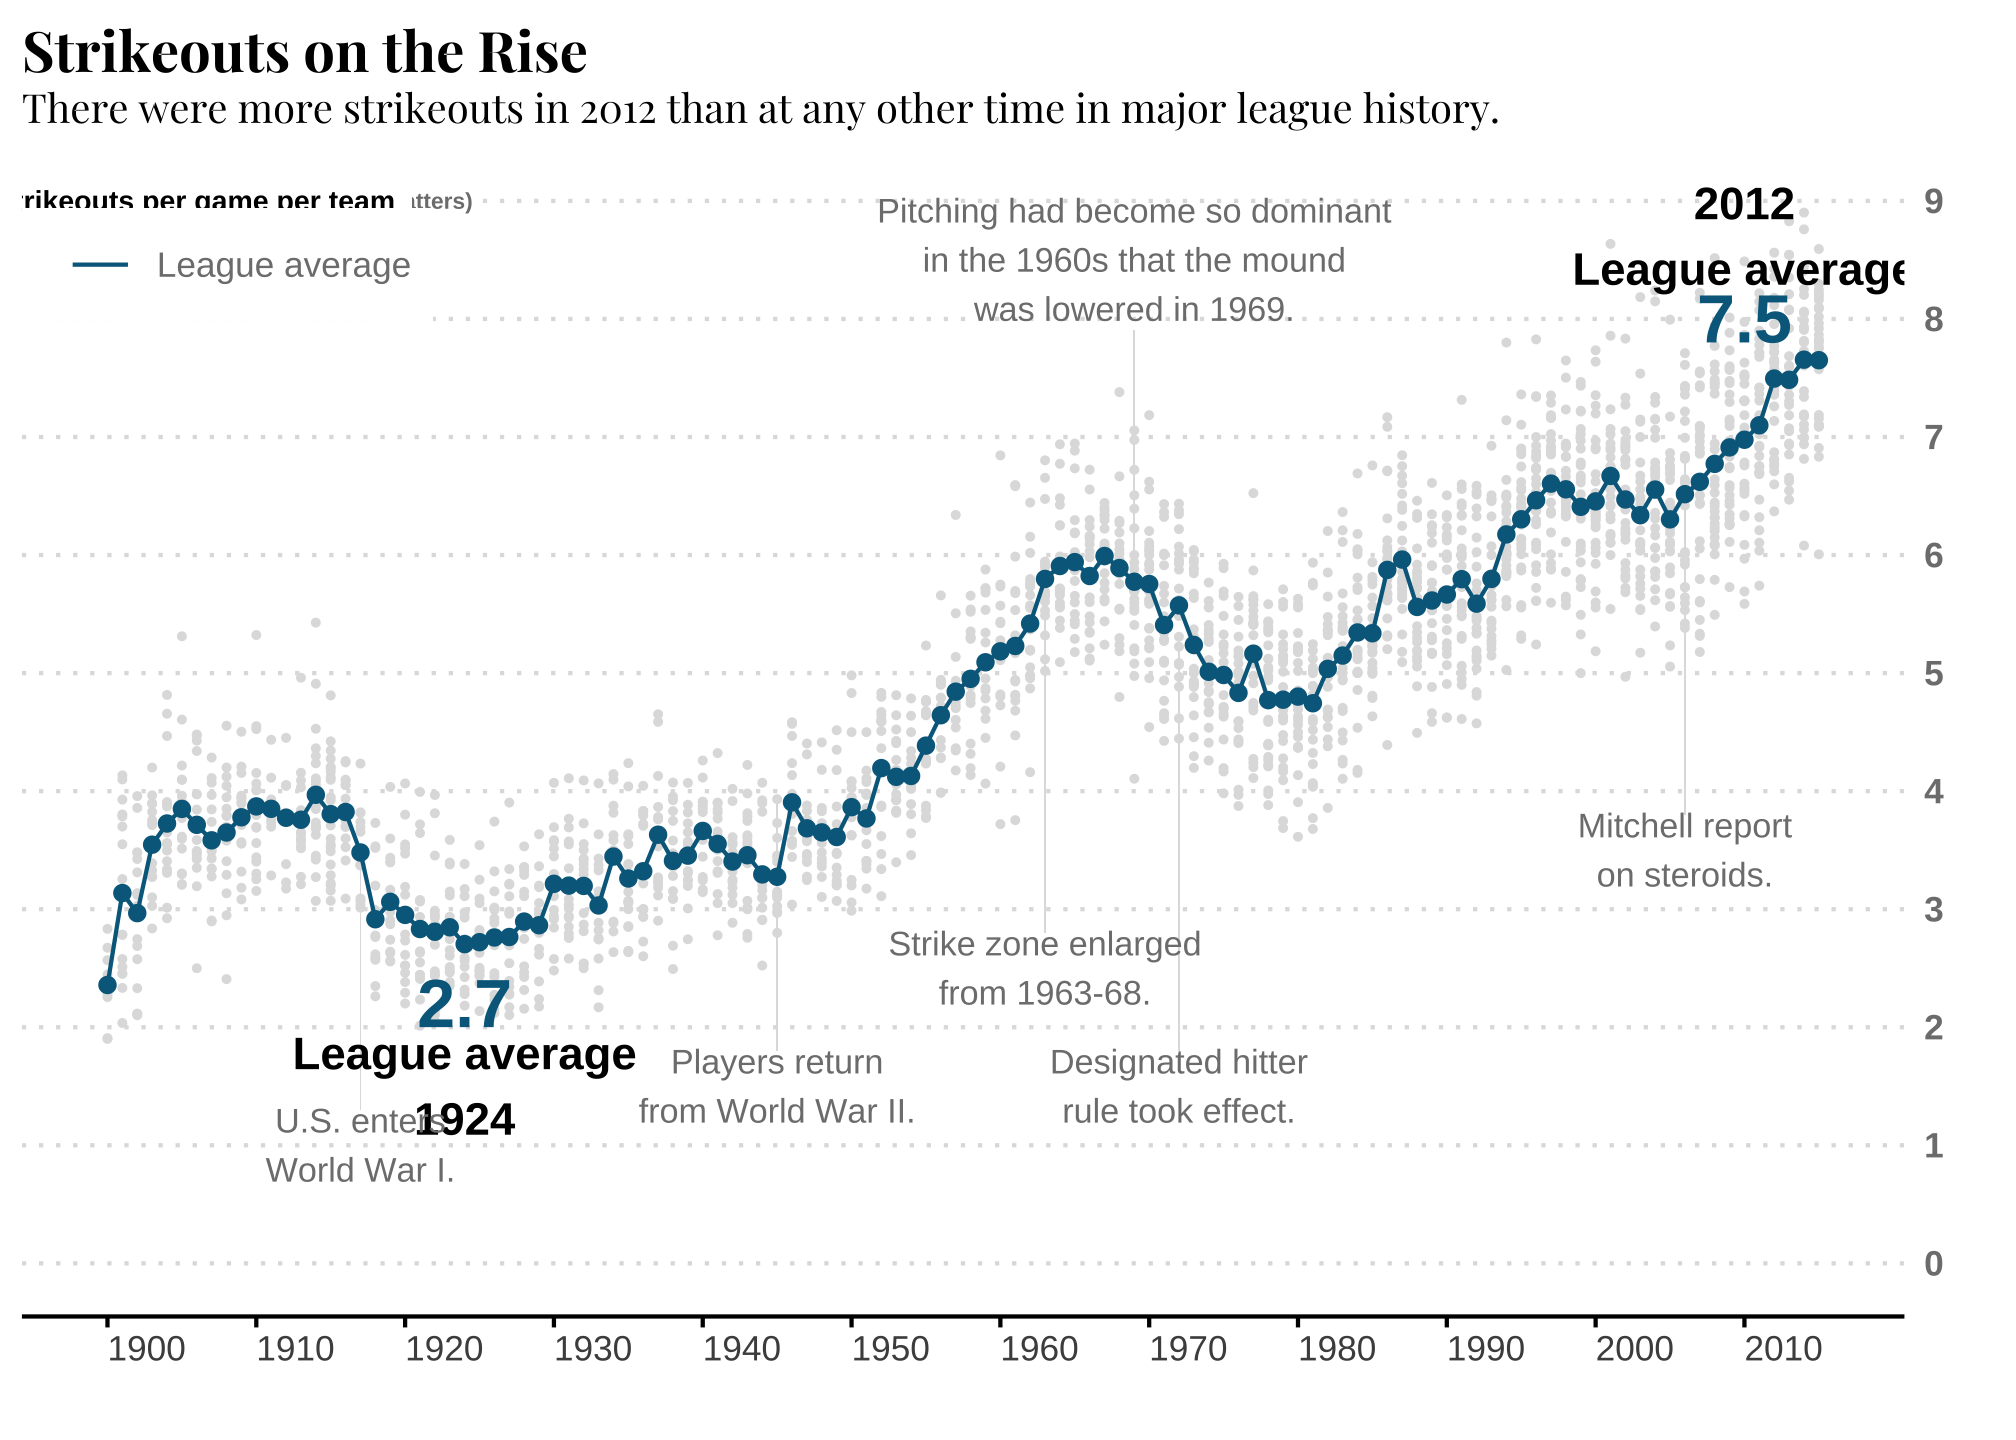
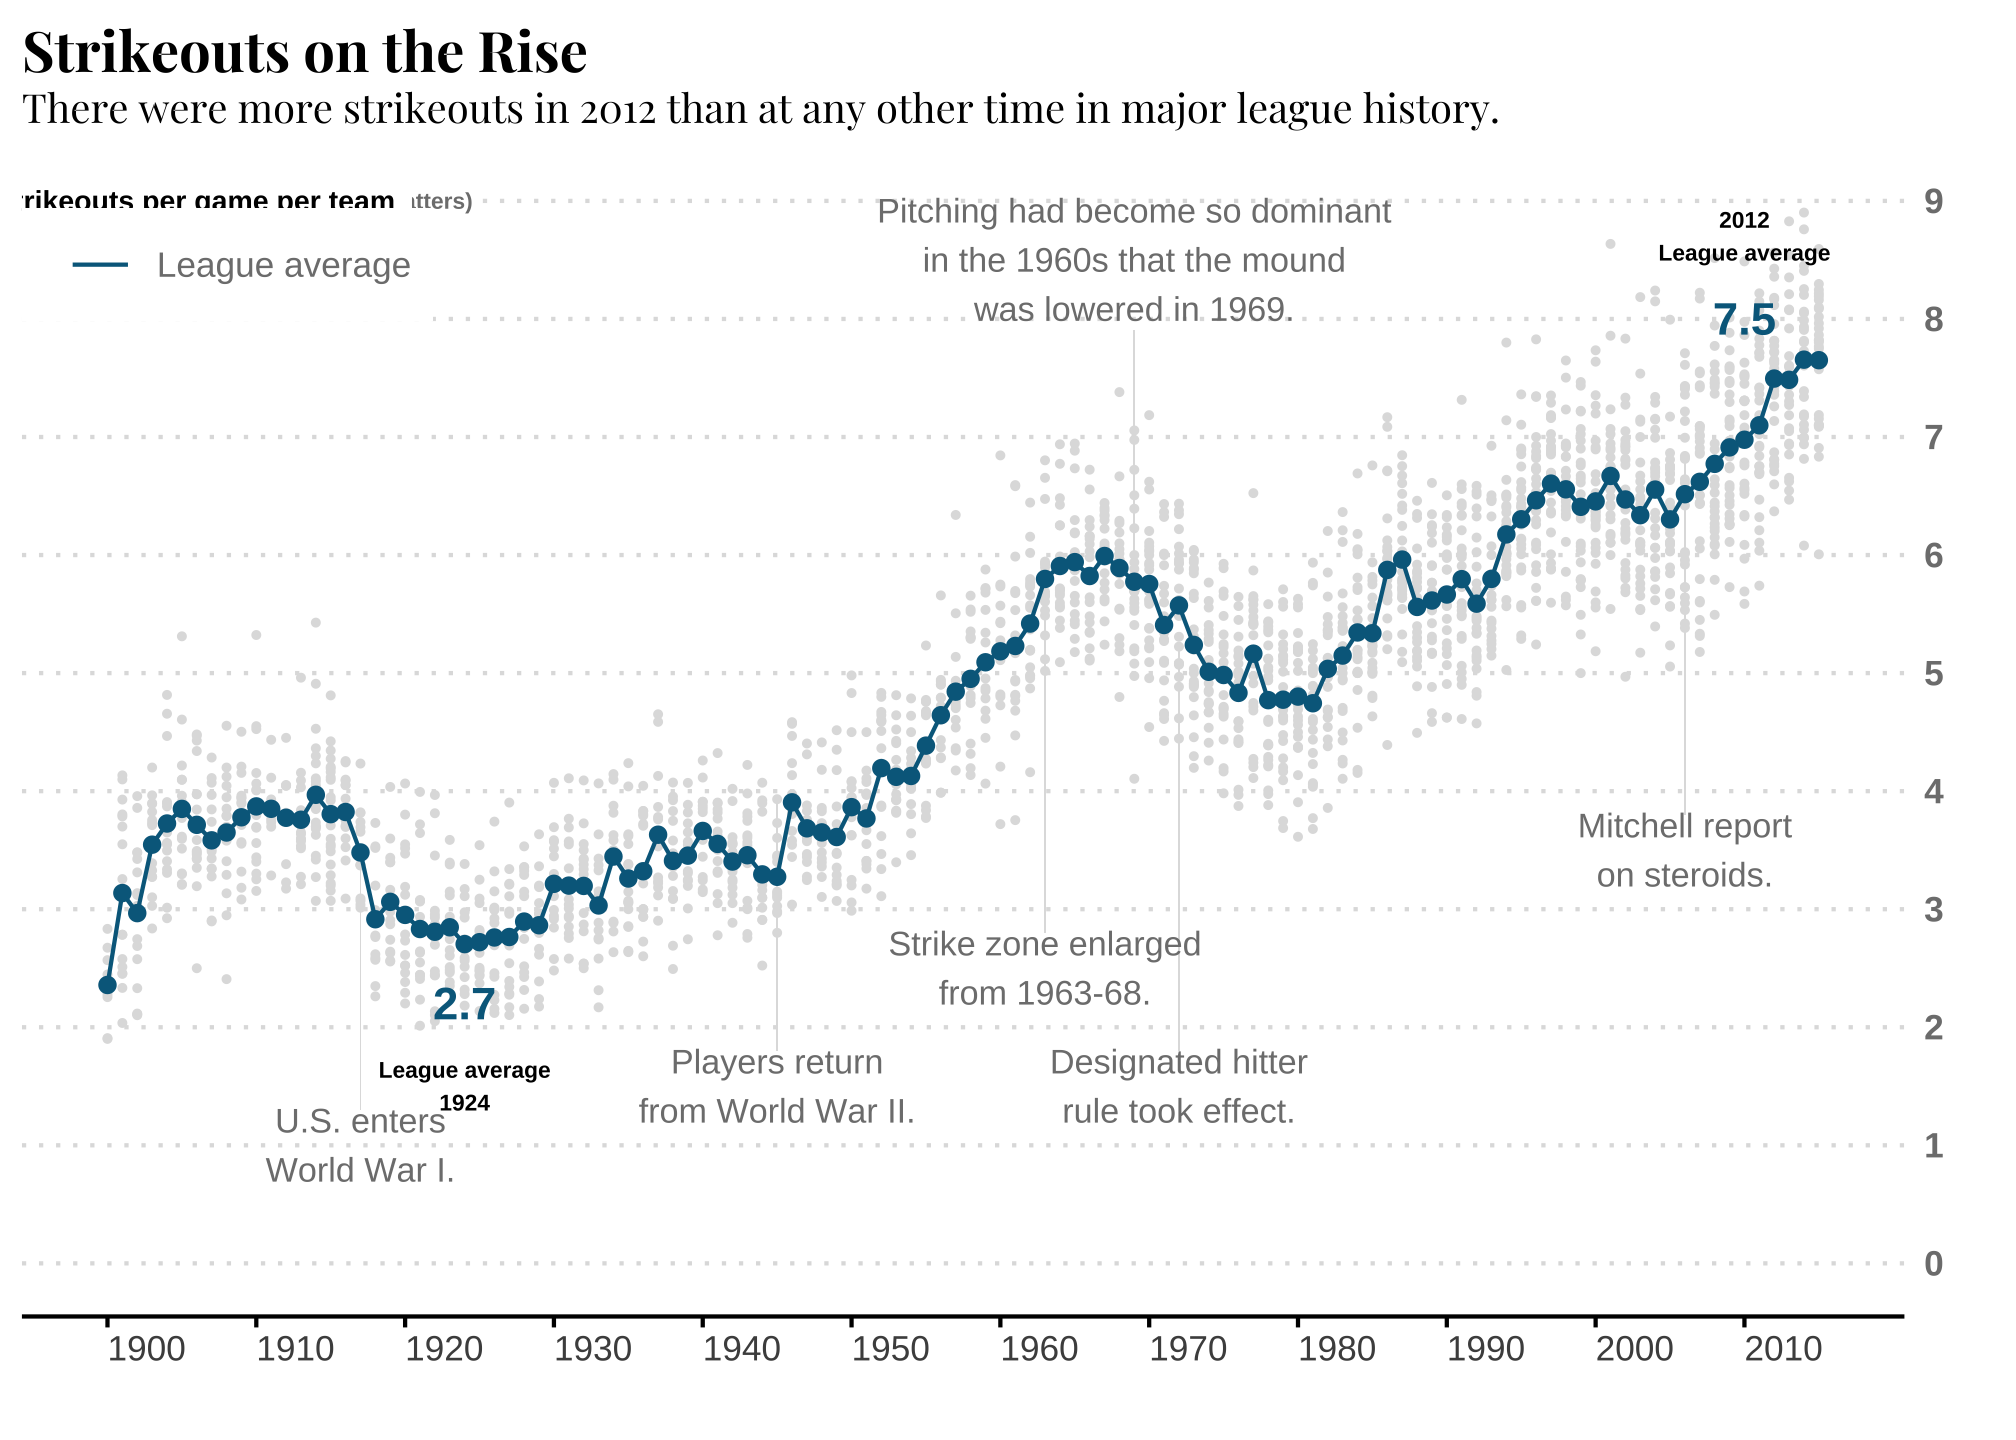
edp693e

Changed region(s): [[0.7812, 0.125, 0.9375, 0.25], [0.125, 0.6562, 0.3125, 0.8125]]

diff --git a/content/assignment/05-assignment-sols.html b/content/assignment/05-assignment-sols.html
@@ -398,21 +398,21 @@ showtext_auto()</code></pre>
   annotate(&quot;text&quot;, x = 2010, y = 8.7, 
            label = &quot;2012\nLeague average&quot;,
            fontface = 2,
-           size = 4) +
+           size = 2) +
   annotate(&quot;text&quot;, x = 2010, y = 8, 
            label = &quot;7.5&quot;,
            fontface = 2,
            color = &quot;#00688b&quot;,
-           size = 6) +
+           size = 4) +
   annotate(&quot;text&quot;, x = 1924, y = 1.5, 
            label = &quot;League average\n1924&quot;, 
            fontface = 2,
-           size = 4) +
+           size = 2) +
   annotate(&quot;text&quot;, x = 1924, y = 2.2, 
            label = &quot;2.7&quot;, 
            fontface = 2,
            color = &quot;#00688b&quot;,
-           size = 6) +
+           size = 4) +
   annotate(geom =&quot;text&quot;, x = 1917, y = 1, 
            size = 3.0, 
            color = &quot;#7e7e7e&quot;, 
